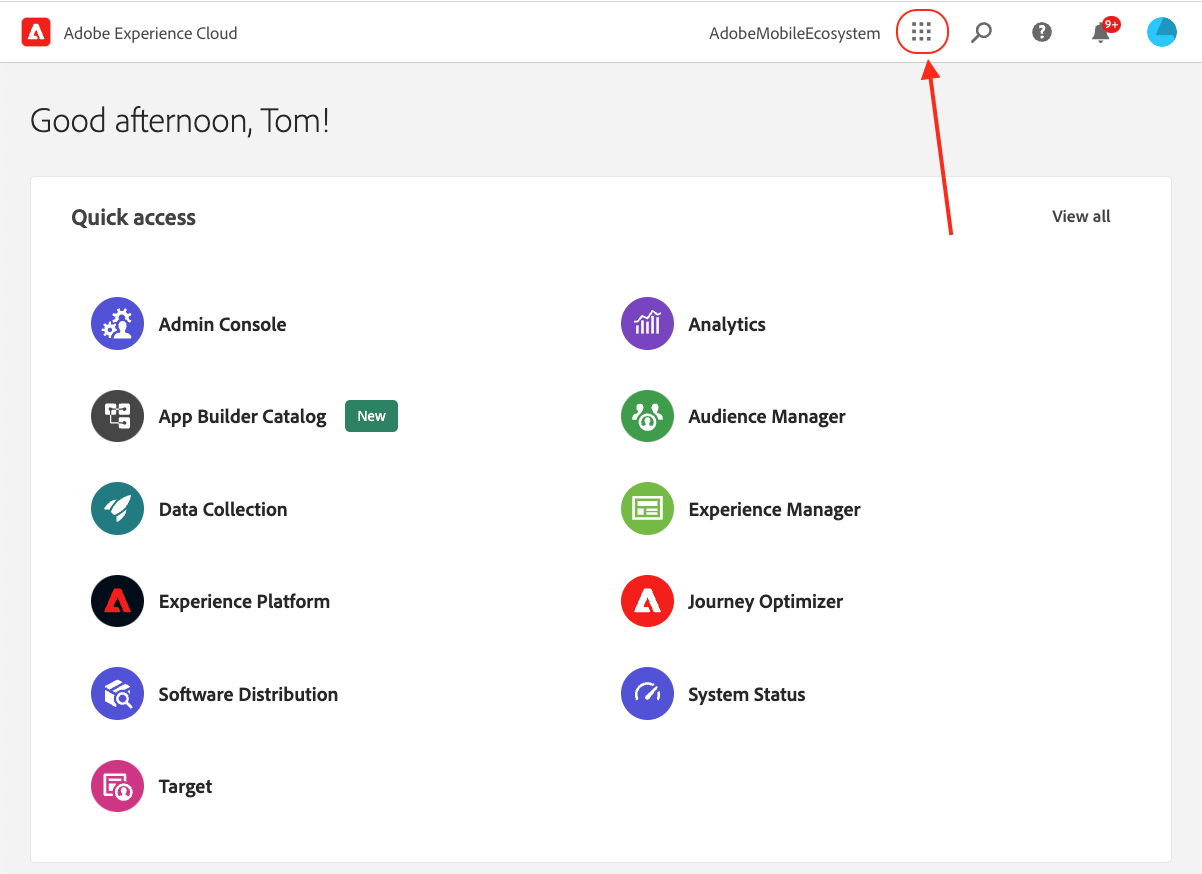
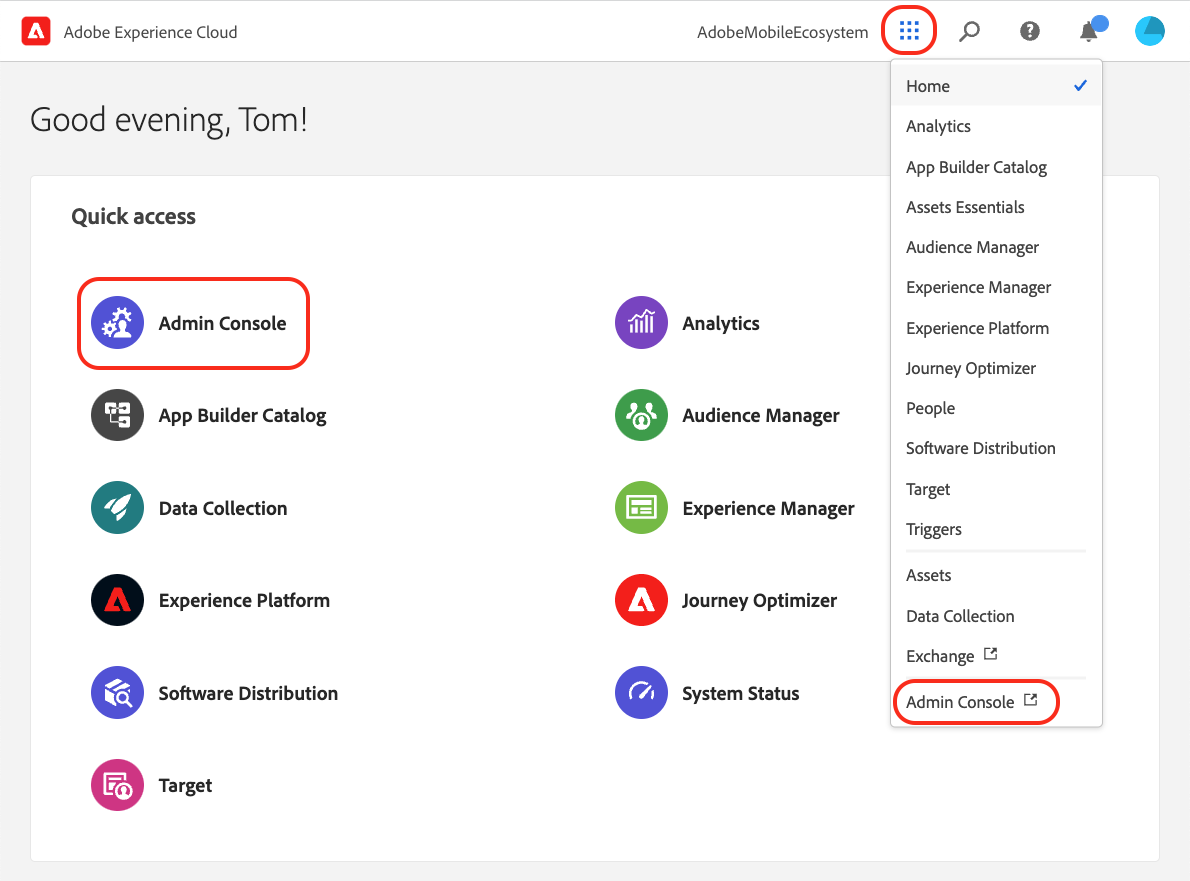
typo and screen shot update

diff --git a/help/places-gain-access.md b/help/places-gain-access.md
@@ -9,7 +9,7 @@ Places Service is now available within the Data Collection UI. You can access Da
 
 ![quick access menu](/help/assets/quickaccess.png)
 
-You can also access the Data Collection from the Adobe Experience Platform menu:
+You can also access Data Collection from the Adobe Experience Platform menu:
 
 ![Experience Platform menu](/help/assets/solutionaccessmenu.png)
 
